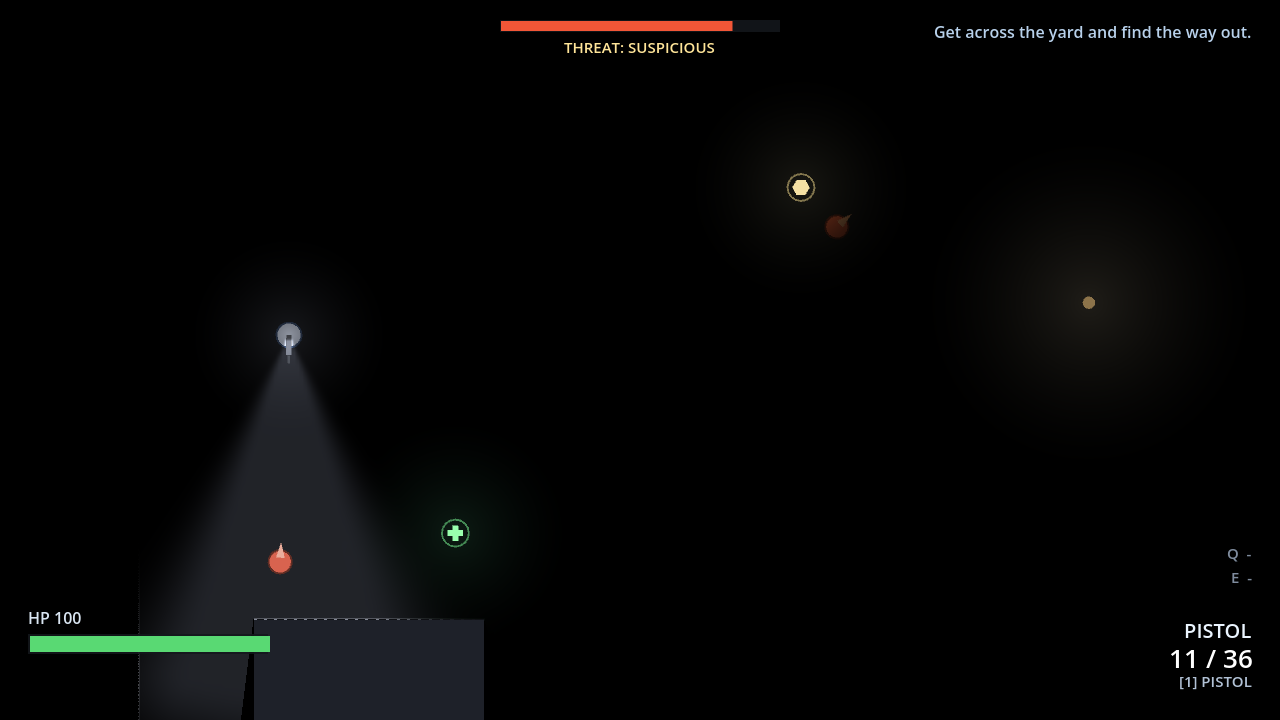
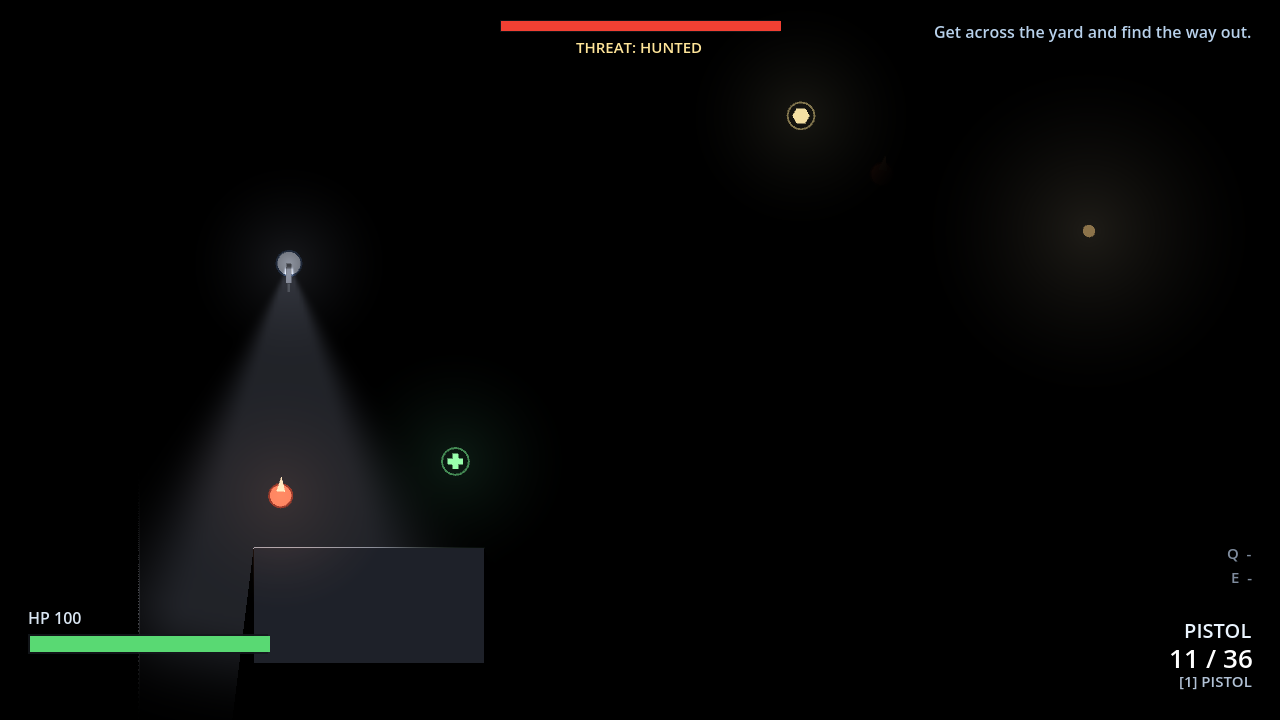
door bounce n smash

diff --git a/docs/DESIGN_NOTES.md b/docs/DESIGN_NOTES.md
@@ -40,6 +40,8 @@ this slice exists to make that one idea readable.
 | "Continue" resumes a level and a loadout, not a position | A real save system (position, enemy state, items already taken) is a large feature and fragile against levels being re-edited. A checkpoint storing the level path and the loadout is a few lines, reuses `WeaponHolder.serialize()` exactly as the level chain already does, and covers what a player actually minds losing -- their guns | `Progress`, `GameDirector.continue_run` |
 | A door is an occluder *and* an obstacle, not just a state flag | In a game where sight is the mechanic, a door that only blocks movement would be decoration. One `StaticBody2D` on the WORLD layer blocks movement, bullets, enemy sight rays and lamp visibility at once, so shutting a door genuinely takes a room off the board | `Door._apply_state`, `Layers.WORLD` |
 | The navmesh is baked *without* doors in it | If doors were bake geometry, a shut door would make its doorway permanently impassable to path finding, and an open one would be a hole the mesh was cut around. Leaving them out means doorways always connect, and a shut door becomes something the AI handles at the door (`open_for_enemy`) rather than something it plans around | `Door` not being a `Wall`, `Enemy._handle_doors` |
+| A blocked door close bounces instead of showing a message | Standing in a doorway and pressing interact is a legible situation: the obstruction is right there on screen. A text message interrupts a fight to explain something the animation can show in a fifth of a second. Nothing is spent, nothing is announced, the leaf just tries and gives up |
+| A smashed door is deleted, not left as wreckage | The doorway is the point. Leaving a ghost leaf means every smashed door is a permanent visual object that also has to be explained (can I walk through it, is it still a door). Deleting the node and playing a short splinter burst leaves a clean opening -- and removes a whole class of "is this still interactive" questions | `Door.smash` |
 | Locked doors need a key, any key, and can never be smashed | One key type keeps the player from juggling colours, and consuming a key makes the door a real cost. Making locks immune to dashing is what stops the dash from trivialising every door in the game: force opens the cheap doors, keys open the real ones | `Door.interact`, `Door.smash` |
 | The pause state is a real menu, not text with key hints | A text overlay can only advertise one binding per action, cannot be clicked, and is unreadable to anyone who has not memorised the hints. `MenuList` is one widget for both menus, and the settings menu hangs off it | `MenuList`, `HUD._show_overlay` |
 
@@ -111,6 +113,18 @@ Also worth knowing:
   a player teleported, respawned or dropped onto them.
 - Swapping scenes from inside a physics callback is not allowed; the level loader
   defers `change_scene_to_file`.
+- **A rotating child pivots on its parent's origin, not on the panel's corner.** The first door leaf
+  was a panel offset by half the door's width inside a leaf node sitting at the door's centre, so
+  opening it spun the whole panel about the middle like a turnstile. Moving the *leaf node* to the
+  edge and drawing the panel from 0 to `size.x` in its space gives a hinge. The rule generalises:
+  put the pivot on the node that rotates, not on its child. The probe reports the hinge position
+  and the free edge every time it reports a door, so this cannot regress unnoticed.
+- **A physics query also lags behind a body that *moved* this frame.** The door's close guard used
+  only `intersect_shape`, so a player who entered the doorway and pressed interact in the same frame
+  was invisible to it and the door shut on them -- the probe caught it as "door closed and pushed
+  the player to exactly the resting distance". Anything that must never happen to the player is now
+  also checked against their position directly (`Door.contains_point`), which is exact and instant;
+  the shape query still covers enemies.
 - **A physics query cannot see a body created in the same frame.** The door test's first version
   spawned a door and immediately asked `intersect_point` whether an enemy was at it; the door did
   not exist to the physics server yet, so the answer was always "nothing there" and the test read

diff --git a/docs/LEVEL_AUTHORING.md b/docs/LEVEL_AUTHORING.md
@@ -190,8 +190,8 @@ those things: the room becomes visible, and so do you.
 
 **Placing one:** turn on **Place door**, click where the doorway should be, and drag along the wall
 to set which way the leaf lies; release to place it. A plain click places it horizontally. Tick
-**Locked** first to place a door that needs a key. Doors go into a `Doors` container when the level
-has one.
+**Locked** first to place a door that needs a key. Doors go into a `Doors` container, which the tool
+creates if the level does not have one yet — one undo removes the door and the container together.
 
 **Leave a gap for it.** The tool places the door; it does not cut the wall. Draw the wall with a
 door-sized opening, then put the door in the opening. The linter reports a door that overlaps a
@@ -208,9 +208,14 @@ survives level changes and is saved with the checkpoint. Put a key somewhere the
 work for, and a locked door somewhere that makes them want it.
 
 **Smashing.** The player's dash destroys an unlocked door permanently, with the loudest noise in
-the level. Dashing into a *locked* door does not open it: it only rattles, louder than trying the
-handle but quieter than a smash. So a locked door can never be bypassed by force — if you want a
-door that is a real barrier, lock it.
+the level: the door bursts into splinters and is **removed from the level**, so the doorway is
+simply open from then on. Dashing into a *locked* door does not open it: it only rattles, louder
+than trying the handle but quieter than a smash. So a locked door can never be bypassed by force —
+if you want a door that is a real barrier, lock it.
+
+**Standing in the doorway** and trying to shut it does not close the door: the leaf swings most of
+the way, meets you, and comes back open. No message is shown, because the animation is the
+explanation. Nothing is consumed and the door's state does not change.
 
 ## Enemy navigation: the "Bake navmesh" button
 
